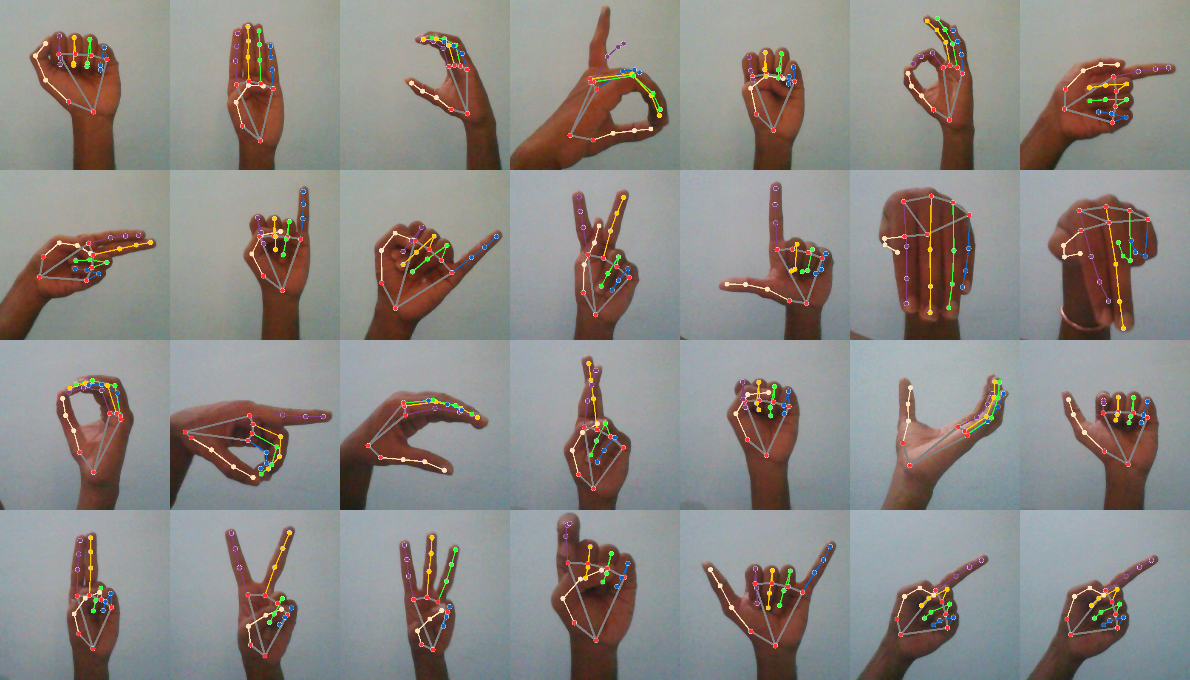
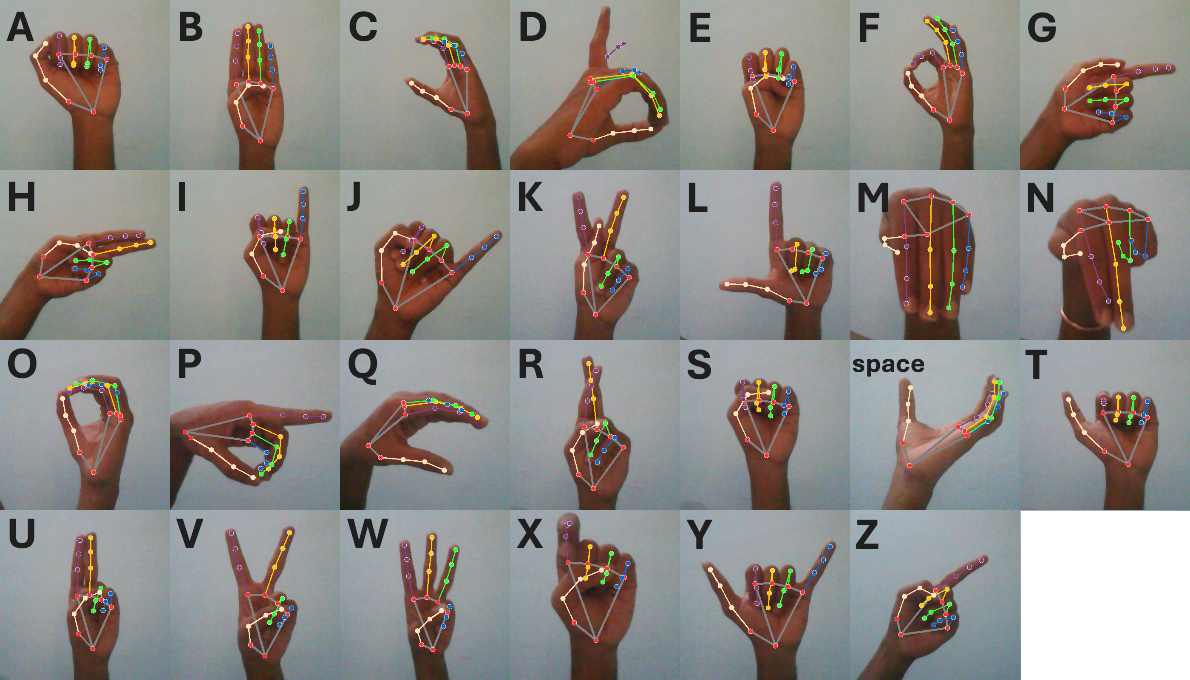
README

diff --git a/README.md b/README.md
@@ -1,1 +1,18 @@
 # Fingertalk
+## American Sign Language Recognition
+
+Use a random forest classifier to recognize American Sign Language (ASL) signs from images. The images are first processed by mediapipe to extract hand landmarks, which are then used as features for the classifier. The model is trained on a dataset of ASL signs and can be used to predict the sign from a new image.
+
+```python ./hand_detection_RFC.py```
+
+![demo.gif](./demo.gif)
+
+![ASL alphabet with landmarks](./documentation/alphabet.png)
+
+### Requirements
+- Python 3.7 or higher
+- mediapipe
+- opencv-python
+- numpy
+- scikit-learn
+- pickle
